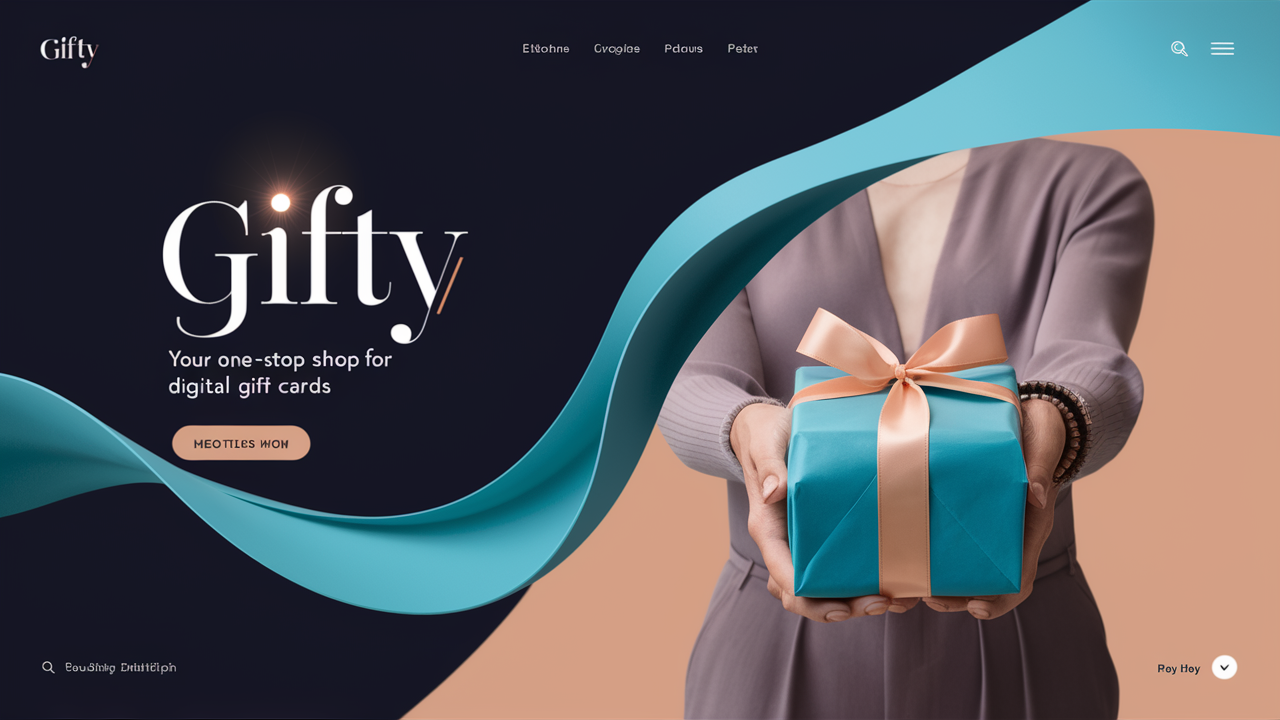
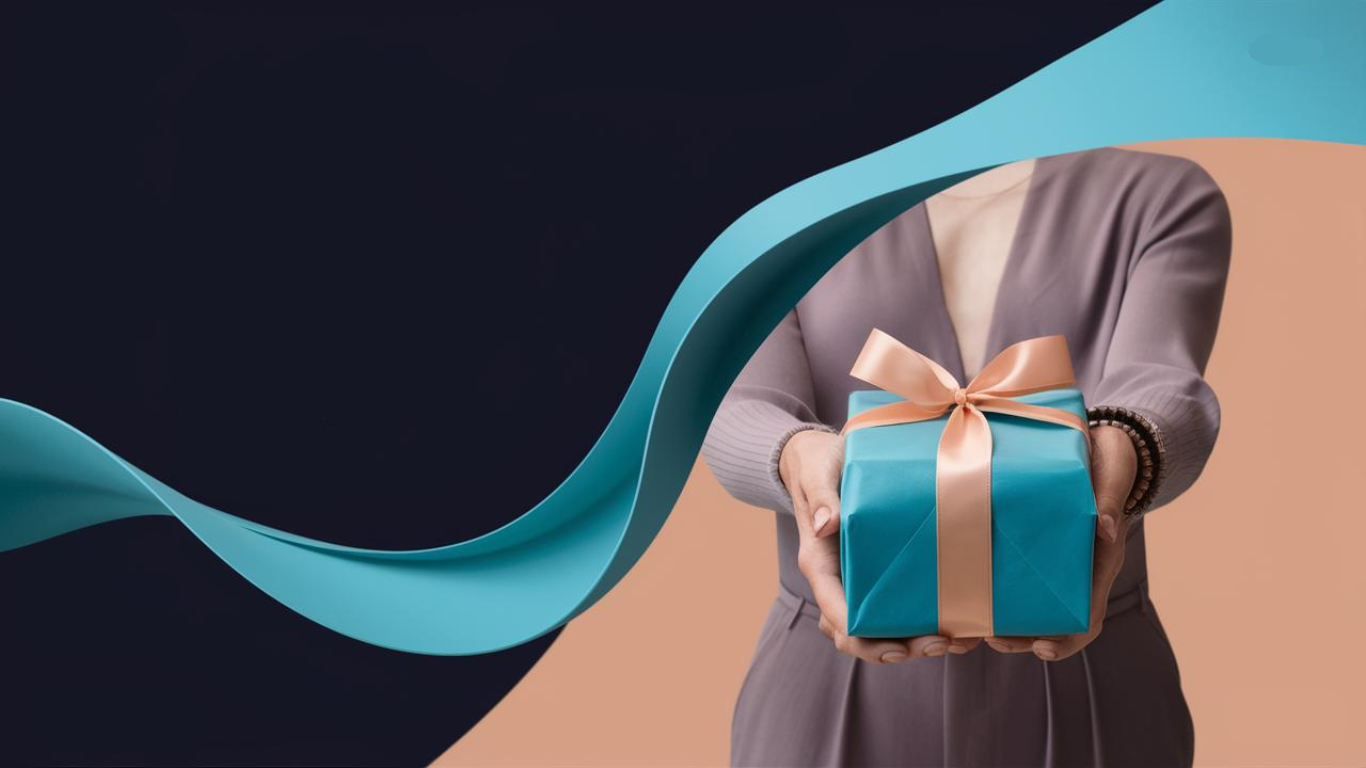
photo changed, text on photo added

diff --git a/Public/css/hero.css b/Public/css/hero.css
@@ -1,23 +1,56 @@
+body {
+    font-family: 'Arial', sans-serif;
+    background-color: #f8f9fa;
+    margin: 0;
+    padding: 0;
+    direction: rtl;
+    text-align: right;
+}
+
 .hero-section {
+    position: relative;
     width: 100%;
-    height: 100vh; /* הגדרת הגובה לגובה המסך כולו */
-    overflow: hidden; /* מניעת גלילה במקרה של תמונה גדולה יותר מהמסך */
+    height: 100vh; /* גובה ה-HERO */
     display: flex;
     align-items: center;
     justify-content: center;
-    background-color: #0D1B2A; /* צבע רקע למקרה שהתמונה לא נטענת */
+    color: #ffffff;
 }
 
-.hero-section .image-content {
-    width: auto;
-    height: auto;
-    display: flex;
-    align-items: center;
-    justify-content: center;
-}
-
-.hero-section .hero-image {
+.image-content {
+    position: relative;
     width: 100%;
-    height: 90%;
-    object-fit: contain; /* הכנת התמונה כך שתתאים לגודל החלק */
+    height: 100%;
+    display: flex;
+    justify-content: center;
+    align-items: center;
+}
+
+.hero-image {
+    width: 100%;
+    height: 100%;
+    object-fit: cover;
+}
+
+.text-overlay {
+    position: absolute;
+    top: 25%; /* מיקום מהרחק למעלה */
+    left: 10%; /* מיקום מצד שמאל */
+    transform: translate(0, -50%);
+    text-align: left; /* יישור טקסט לשמאל */
+}
+
+.hero-title {
+    font-family: 'Arsenal', sans-serif; /* שימוש בפונט Arsenal */
+    font-size: 6rem; /* גודל פונט גדול */
+    font-weight: bold;
+    color: #70A9A1; /* הצבע הכחול בהיר */
+    margin: 0; /* ביטול מרווח תחתון */
+}
+
+.hero-subtitle {
+    font-family: 'Arsenal', sans-serif; /* שימוש בפונט Sacramento */
+    font-size: 1.7rem; /* גודל פונט */
+    margin-top: 10px;
+    color: #ffffff;
 }
